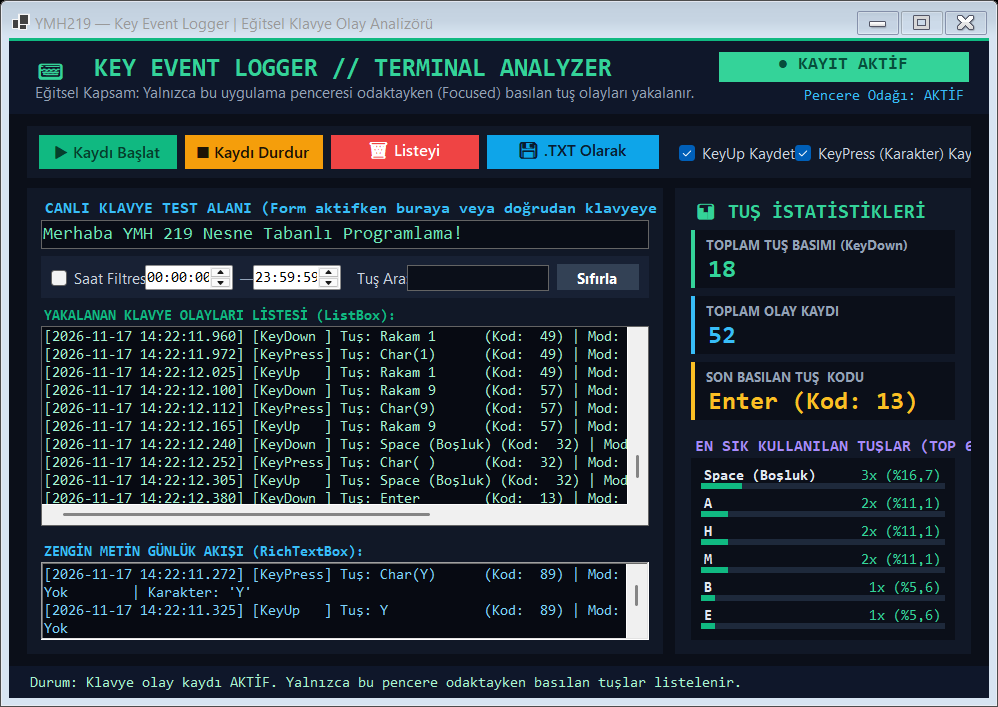
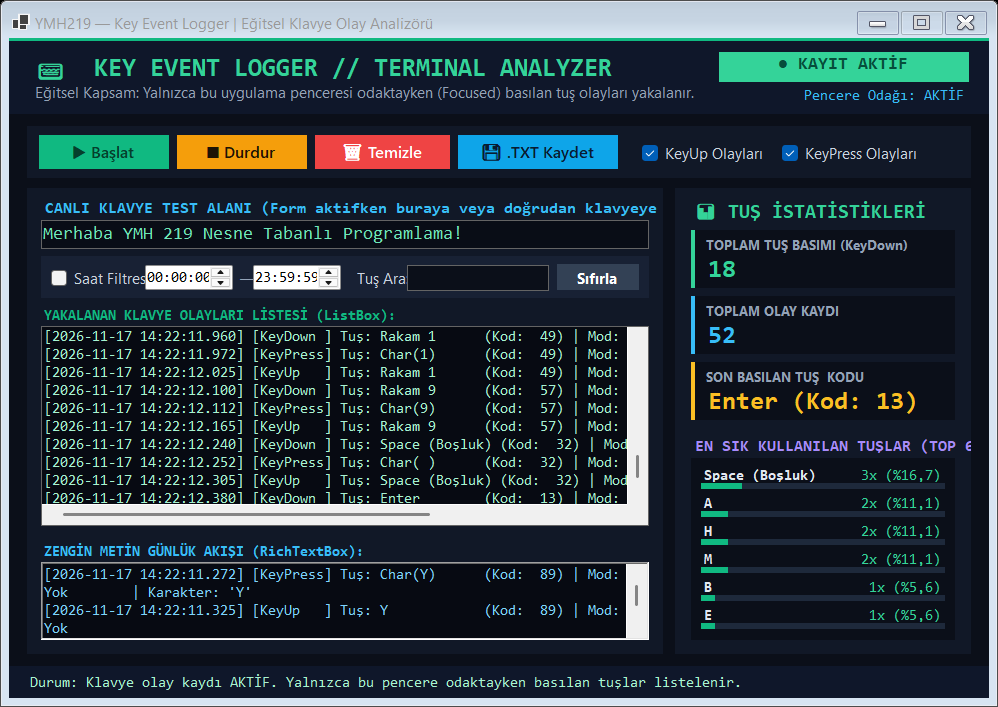
style(ui): refine toolbar button widths and regenerate screenshots

Changed region(s): [[0.0621, 0.1867, 0.9629, 0.2489]]

diff --git a/KeyEventLoggerApp/MainForm.cs b/KeyEventLoggerApp/MainForm.cs
@@ -112,29 +112,29 @@ public sealed class MainForm : Form
         };
         Controls.Add(toolbarPanel);
 
-        _btnStart = CreateToolbarButton("▶ Kaydı Başlat", 12, 9, 138, Color.FromArgb(16, 185, 129), Color.FromArgb(6, 46, 34));
+        _btnStart = CreateToolbarButton("▶ Başlat", 12, 9, 130, Color.FromArgb(16, 185, 129), Color.FromArgb(6, 46, 34));
         _btnStart.Click += (_, _) => SetRecordingState(true);
         toolbarPanel.Controls.Add(_btnStart);
 
-        _btnStop = CreateToolbarButton("■ Kaydı Durdur", 158, 9, 138, Color.FromArgb(245, 158, 11), Color.FromArgb(30, 20, 5));
+        _btnStop = CreateToolbarButton("■ Durdur", 150, 9, 130, Color.FromArgb(245, 158, 11), Color.FromArgb(30, 20, 5));
         _btnStop.Click += (_, _) => SetRecordingState(false);
         toolbarPanel.Controls.Add(_btnStop);
 
-        _btnClear = CreateToolbarButton("🗑 Listeyi Temizle", 304, 9, 148, Color.FromArgb(239, 68, 68), Color.White);
+        _btnClear = CreateToolbarButton("🗑 Temizle", 288, 9, 135, Color.FromArgb(239, 68, 68), Color.White);
         _btnClear.Click += (_, _) => ClearAllLogs();
         toolbarPanel.Controls.Add(_btnClear);
 
-        _btnExport = CreateToolbarButton("💾 .TXT Olarak Kaydet", 460, 9, 172, Color.FromArgb(14, 165, 233), Color.FromArgb(8, 28, 48));
+        _btnExport = CreateToolbarButton("💾 .TXT Kaydet", 431, 9, 160, Color.FromArgb(14, 165, 233), Color.FromArgb(8, 28, 48));
         _btnExport.Click += (_, _) => ExportLogsWithDialog();
         toolbarPanel.Controls.Add(_btnExport);
 
         _chkKeyUp = new CheckBox
         {
-            Text = "KeyUp Kaydet",
+            Text = "KeyUp Olayları",
             Checked = true,
             Font = new Font("Segoe UI", 9f),
             ForeColor = Color.FromArgb(203, 213, 225),
-            Location = new Point(652, 16),
+            Location = new Point(615, 16),
             AutoSize = true
         };
         _chkKeyUp.CheckedChanged += (_, _) => _session.LogKeyUpEvents = _chkKeyUp.Checked;
@@ -142,11 +142,11 @@ public sealed class MainForm : Form
 
         _chkKeyPress = new CheckBox
         {
-            Text = "KeyPress (Karakter) Kaydet",
+            Text = "KeyPress Olayları",
             Checked = true,
             Font = new Font("Segoe UI", 9f),
             ForeColor = Color.FromArgb(203, 213, 225),
-            Location = new Point(768, 16),
+            Location = new Point(755, 16),
             AutoSize = true
         };
         _chkKeyPress.CheckedChanged += (_, _) => _session.LogKeyPressEvents = _chkKeyPress.Checked;
